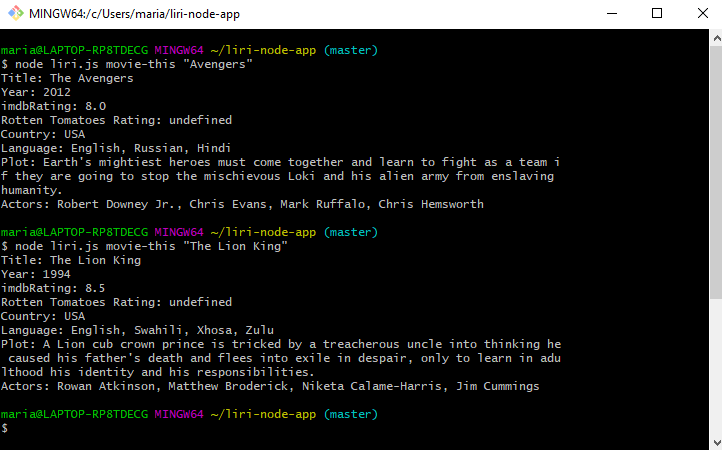
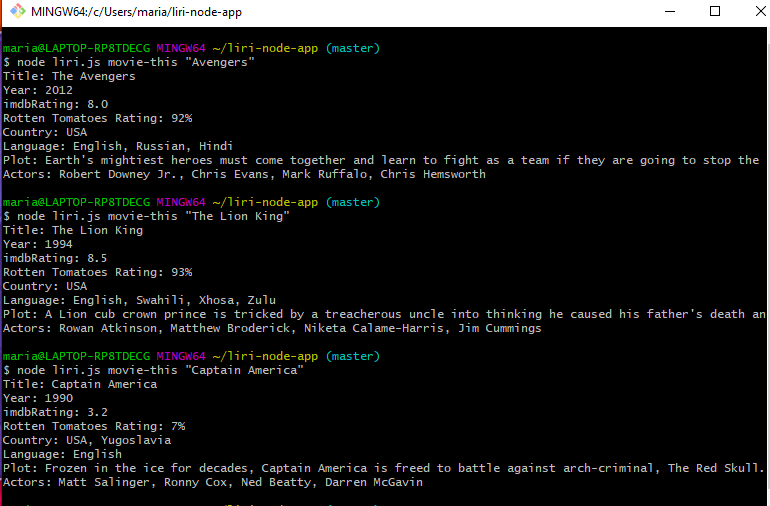
readme

Changed region(s): [[0.0, 0.0, 1.0, 1.0], [0.2742, 0.9956, 0.3352, 1.0]]

diff --git a/liri.js b/liri.js
@@ -42,7 +42,7 @@ function spotifyThisSong(song) {
                 console.log("Artist: " + response.tracks.items[0].artists[0].name);
                 console.log("Track: " + response.tracks.items[0].name);
                 console.log("Preview URL: " + response.tracks.items[0].preview_url);
-                console.log("Album: " + response.tracks.items[0].album.album);
+                console.log("Album: " + response.tracks.items[0].album.name);
             }
         })
         .catch(function (error) {
@@ -81,7 +81,7 @@ function movieThis(movie) {
                 console.log("Title: " + response.data.Title);
                 console.log("Year: " + response.data.Year);
                 console.log("imdbRating: " + response.data.imdbRating);
-                console.log("Rotten Tomatoes Rating: " + response.data.rottenTomatoesRating);
+                console.log("Rotten Tomatoes Rating: " + response.data.Ratings[1].Value);
                 console.log("Country: " + response.data.Country);
                 console.log("Language: " + response.data.Language);
                 console.log("Plot: " + response.data.Plot);
@@ -134,4 +134,4 @@ switch (command) {
     case "do-what-it-says":
         doWhatItSays(searchTerm);
         break;
-}
+};
